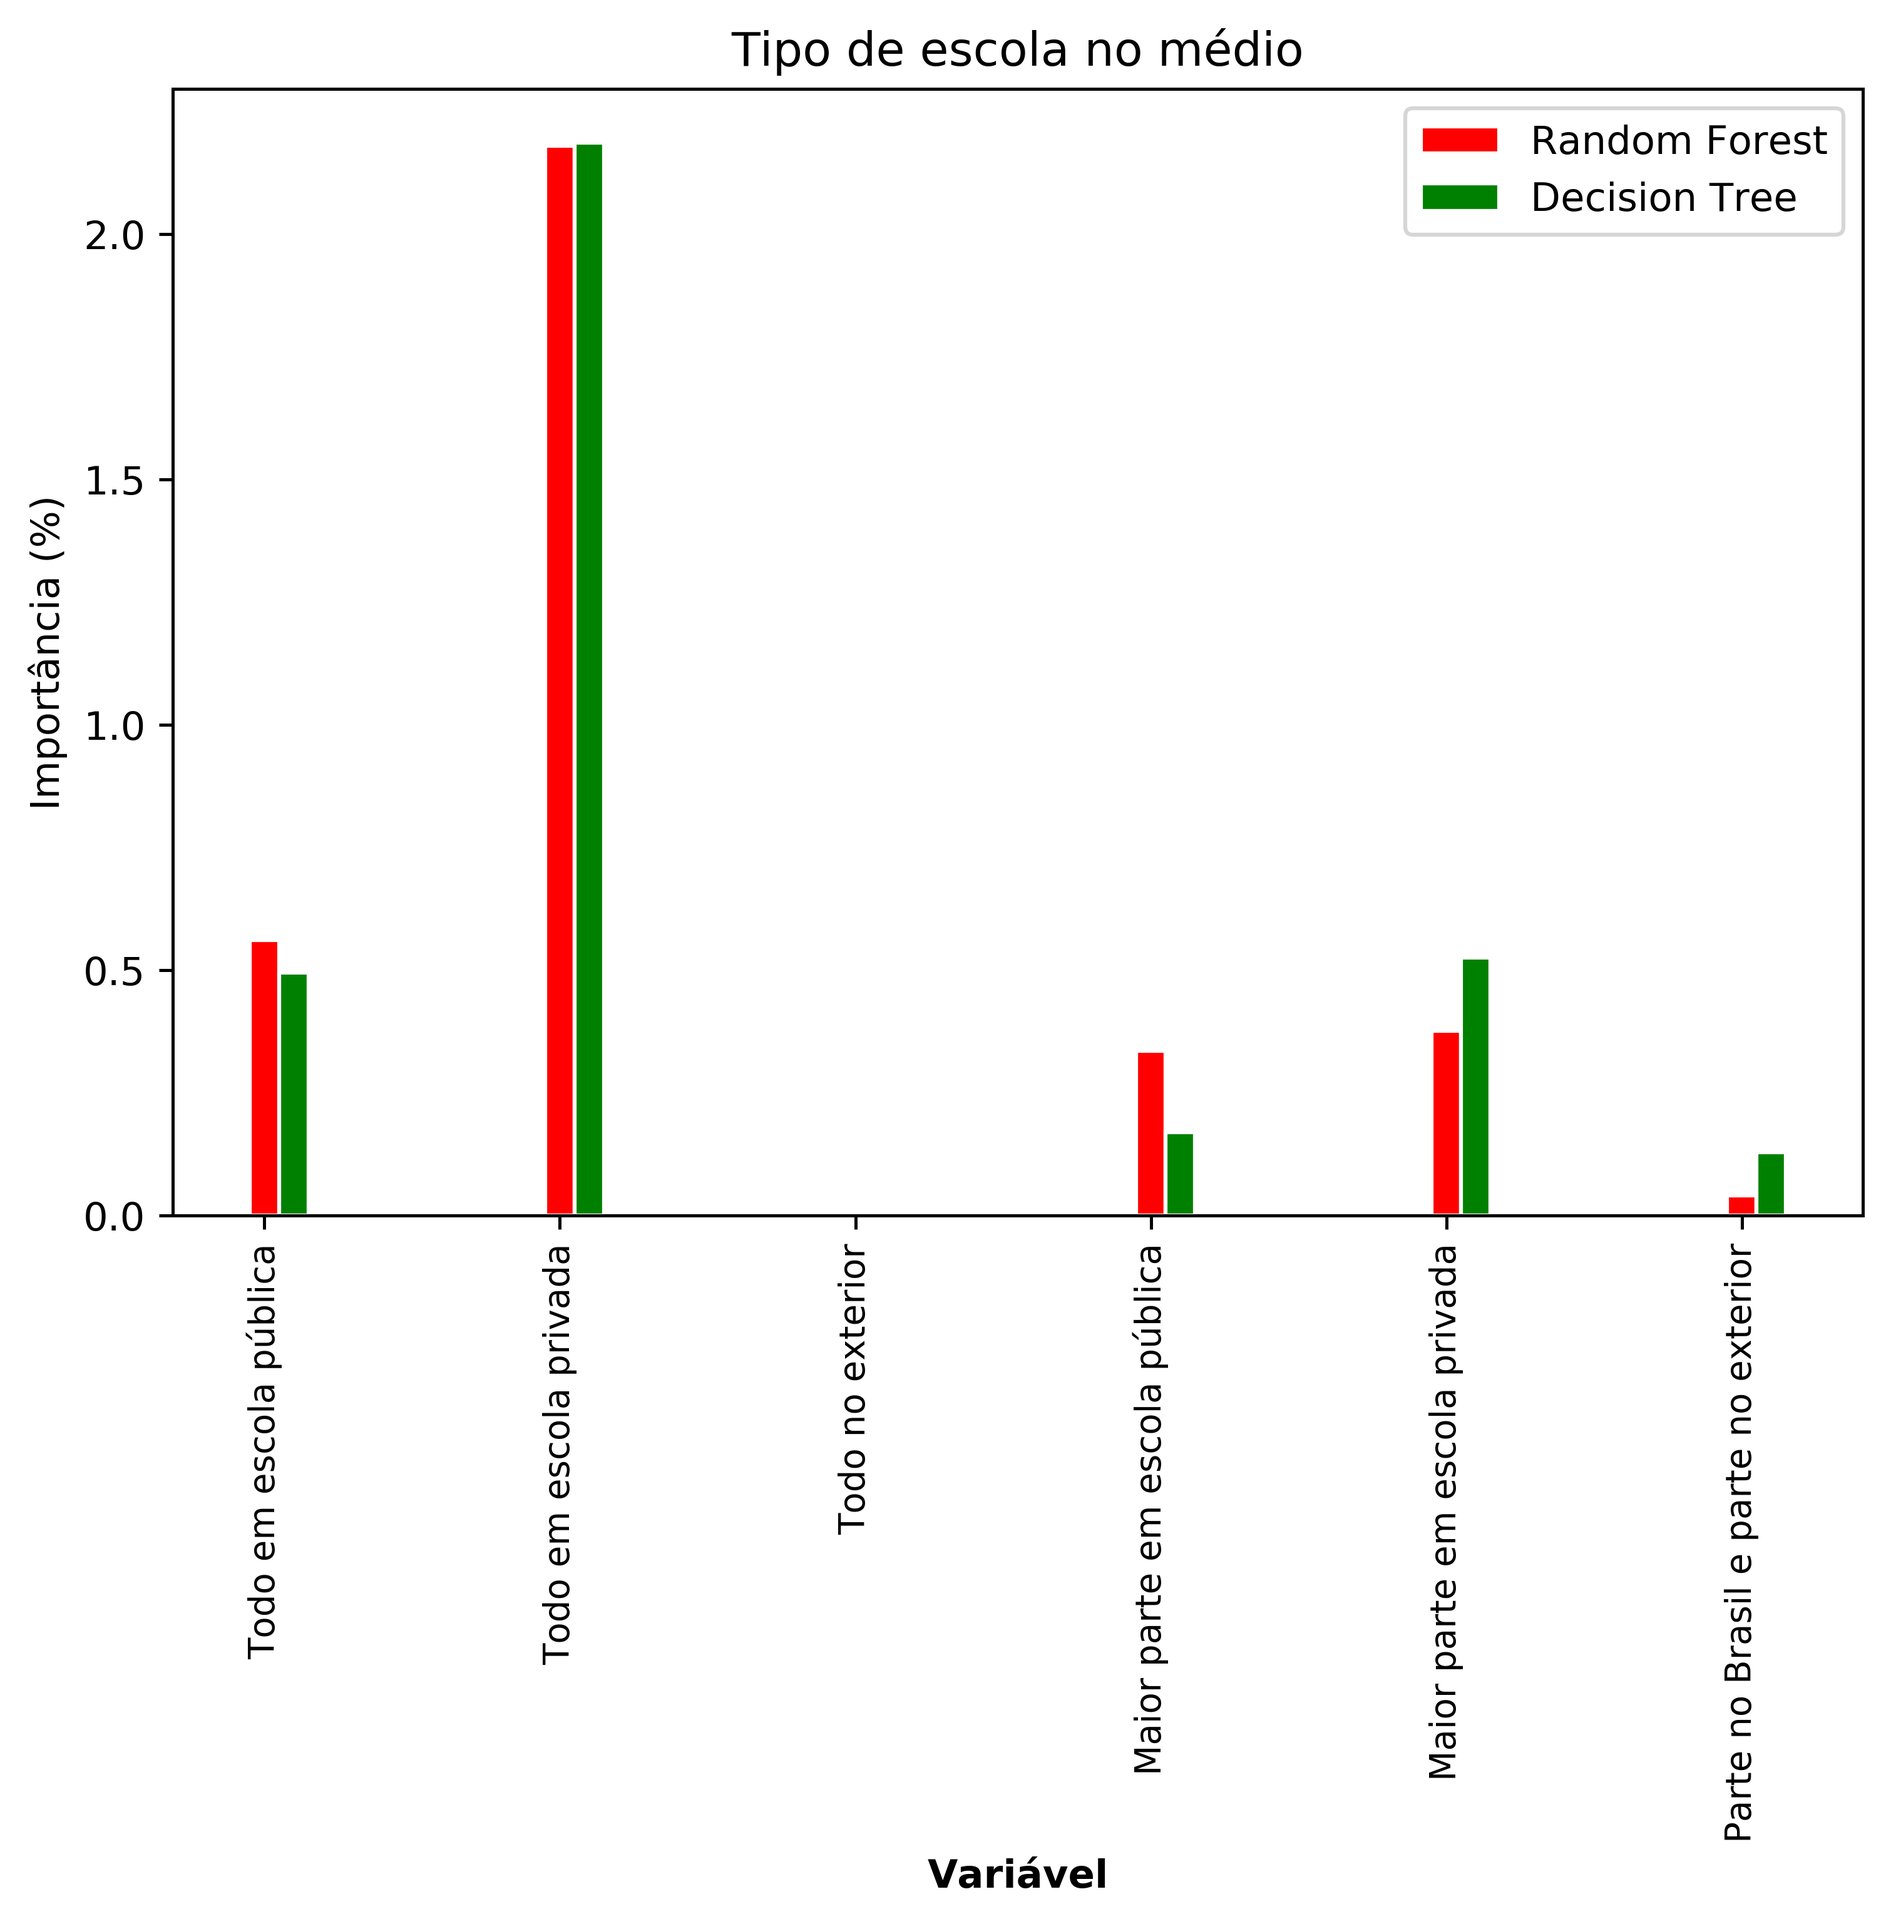
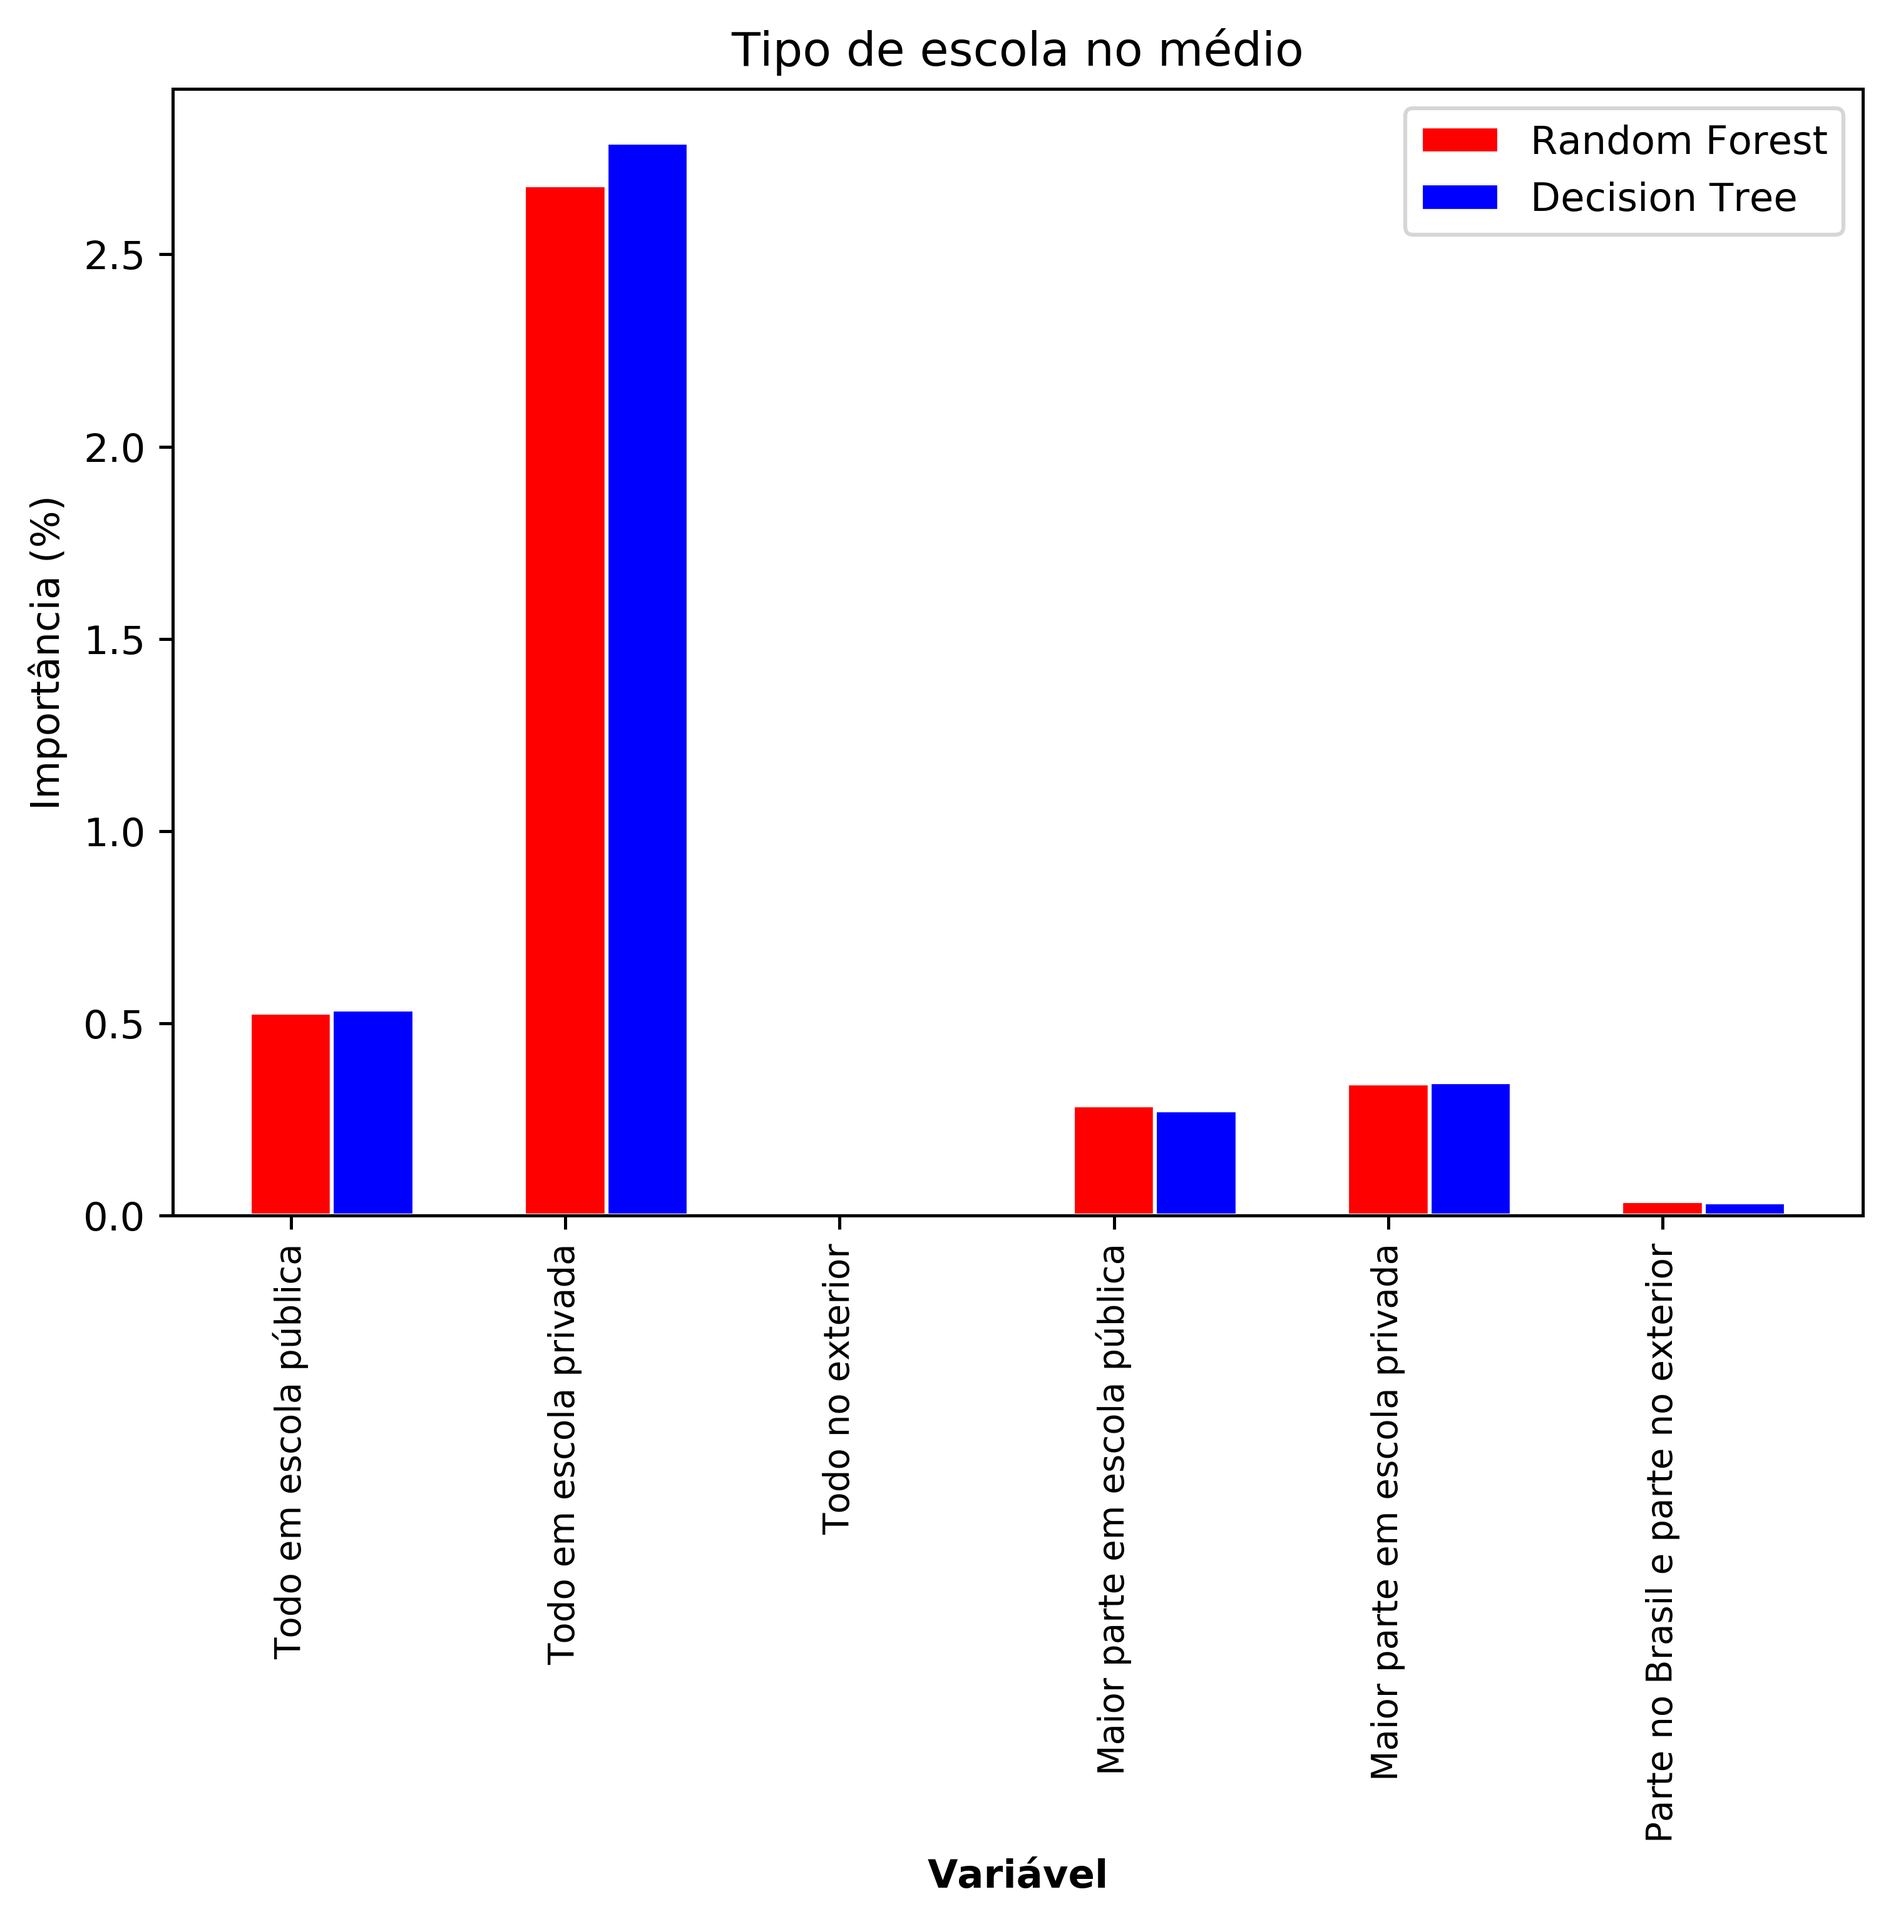
Comparação DT e RF. Mudança na cor (azul) e na espessura da barra (0.3). Acrescentar no título se é AL ou BR.

diff --git a/compare_methods/compare_methods_al.py b/compare_methods/compare_methods_al.py
@@ -107,7 +107,7 @@ from sklearn.model_selection import KFold
 from sklearn.ensemble import RandomForestRegressor
 from sklearn.tree import DecisionTreeRegressor
 
-split_is_multiple = int(2);
+split_is_multiple = int(11);
 
 scores_al_rf = []
 scores_al_dt = []
